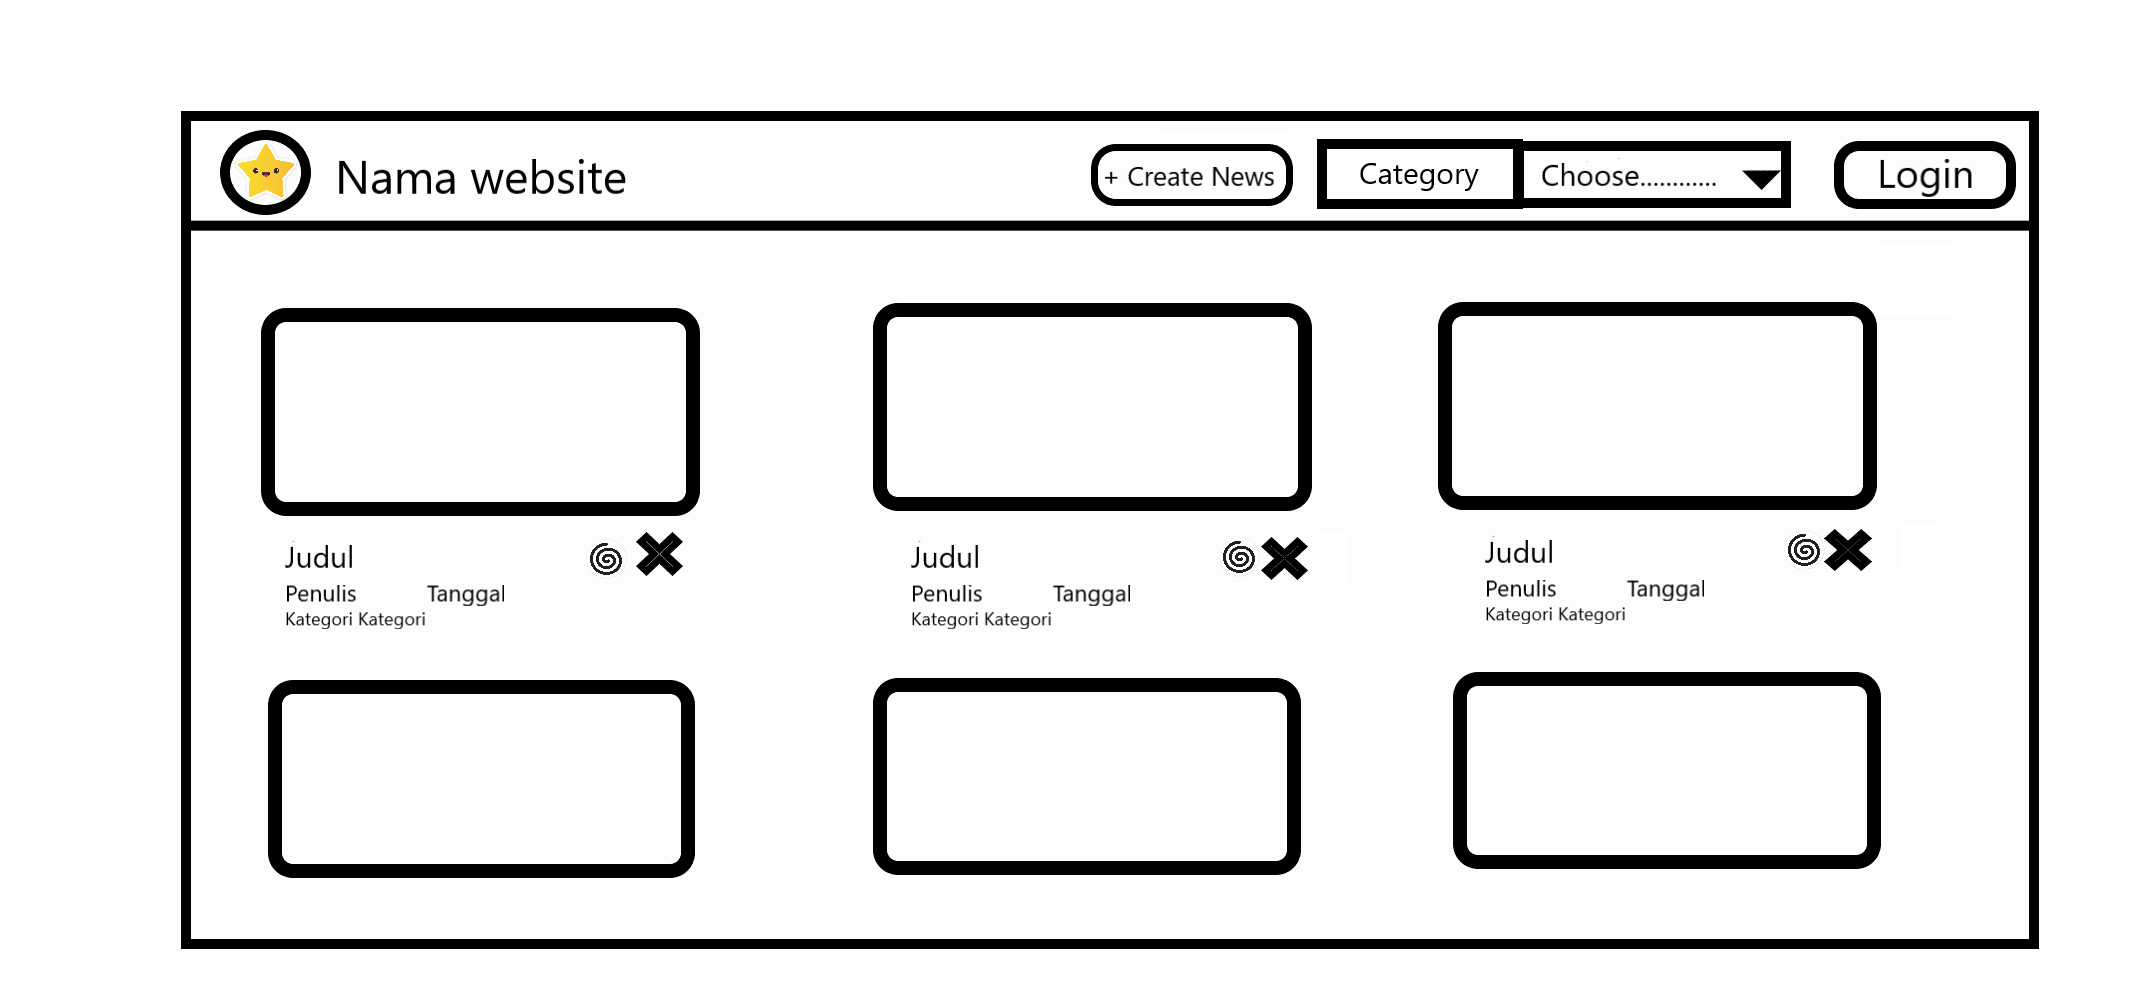
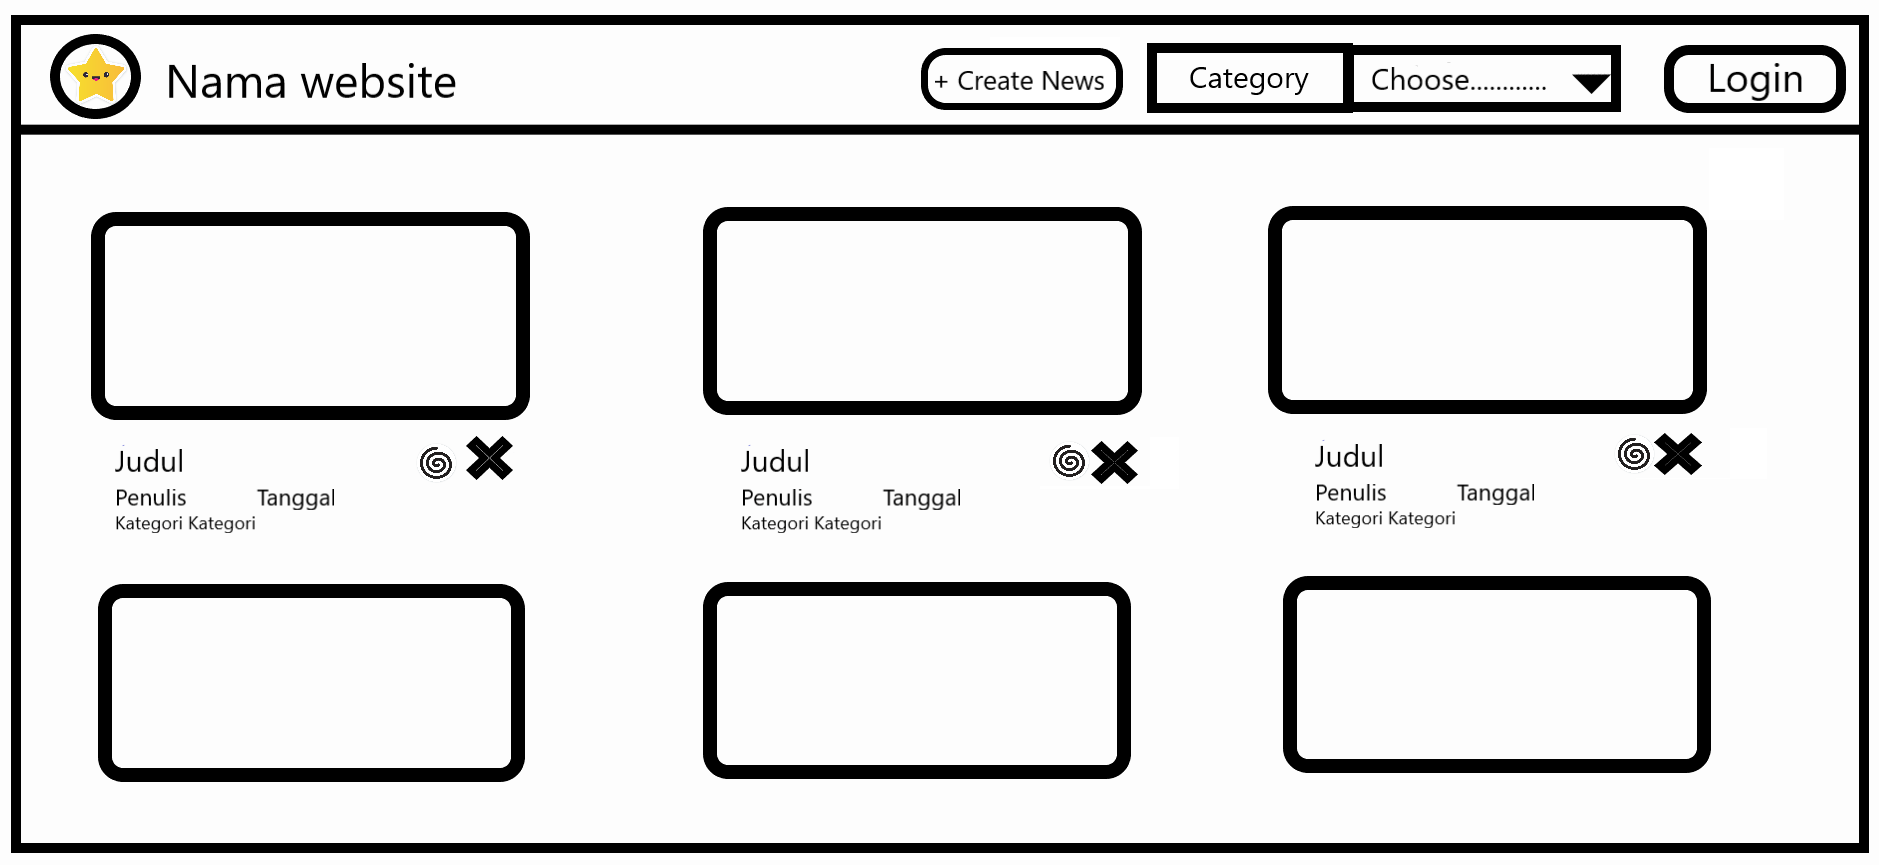
4am Improvement
I gotta sleep

Changed region(s): [[0.0, 0.0, 1.0, 0.9988], [0.3704, 0.6555, 0.6173, 0.9052]]

diff --git a/app/views/home/index.php b/app/views/home/index.php
@@ -1,4 +1,5 @@
 <div class="container">
+    <br>
         <?php 
             for ($i = 0; $i < 3; $i++)
             {
@@ -7,13 +8,19 @@
                     <div class="col-md-4">
                         <a href="<?= base_url ?>detail">
                             <div class="row">
-                                <img src="http://localhost/UTS_webprog/design/home_notlogin.png" alt="" >
+                                <img src="http://localhost/UTS_webprog/design/home_notlogin.png" alt="" style="padding-bottom:8px">
                             </div>
                         </a>
                         <div class="row">
                             <div class="col">
-                                <p style="font-size: large;">Judul</p>
+                                <p style="font-size: large; ">Judul</p>
                             </div>
+                            <!--
+                            <div class="col">
+                                <a href="<?= base_url ?>" role="button" class="btn btn-primary" style="margin-right:5px">Edit</a>
+                                <a href="<?= base_url ?>" role="button" class="btn btn-danger">Delete</a>
+                            </div>
+                            -->
                         </div>
                         <div class="row">
                             <div class="col">
@@ -24,20 +31,26 @@
                             </div>
                         </div>
                         <div class="row">
-                            <p style="font-size: small;">Kategori</p>
+                            <p style="font-size: small; padding-bottom:8px">Kategori</p>
                         </div>
                     </div>
                         
                     <div class="col-md-4">
                         <a href="<?= base_url ?>detail">
                             <div class="row">
-                                <img src="http://localhost/UTS_webprog/design/home_notlogin.png" alt="" >
+                                <img src="http://localhost/UTS_webprog/design/home_notlogin.png" alt="" style="padding-bottom:8px">
                             </div>
                         </a>
                         <div class="row">
                             <div class="col">
-                                <p style="font-size: large;">Judul</p>
+                                <p style="font-size: large; ">Judul</p>
                             </div>
+                            <!--
+                            <div class="col">
+                                <a href="<?= base_url ?>" role="button" class="btn btn-primary" style="margin-right:5px">Edit</a>
+                                <a href="<?= base_url ?>" role="button" class="btn btn-danger">Delete</a>
+                            </div>
+                            -->
                         </div>
                         <div class="row">
                             <div class="col">
@@ -48,19 +61,25 @@
                             </div>
                         </div>
                         <div class="row">
-                            <p style="font-size: small;">Kategori</p>
+                            <p style="font-size: small; padding-bottom:8px">Kategori</p>
                         </div>
                     </div>
 
                     <div class="col-md-4">
                         <a href="<?= base_url ?>detail">
                             <div class="row">
-                                <img src="http://localhost/UTS_webprog/design/home_notlogin.png" alt="" >
+                                <img src="http://localhost/UTS_webprog/design/home_notlogin.png" alt="" style="padding-bottom:8px">
                             </div>
                         </a>
                         <div class="row">
                             <div class="col">
-                                <p style="font-size: large;">Judul</p>
+                                <p style="font-size: large; ">Judul</p>
+                            </div>
+                            <div class="col">
+                                <!--
+                                <a href="<?= base_url ?>" role="button" class="btn btn-primary" style="margin-right:5px">Edit</a>
+                                <a href="<?= base_url ?>" role="button" class="btn btn-danger">Delete</a>
+                                -->
                             </div>
                         </div>
                         <div class="row">
@@ -72,7 +91,7 @@
                             </div>
                         </div>
                         <div class="row">
-                            <p style="font-size: small;">Kategori</p>
+                            <p style="font-size: small; padding-bottom:8px">Kategori</p>
                         </div>
                     </div>
                 </div>

diff --git a/app/views/detail/index.php b/app/views/detail/index.php
@@ -3,8 +3,8 @@
     <img src="http://localhost/UTS_webprog/app/views/detail/59855940.jpg">
   </div>
   <br>
-  <h1>Tokyo 7th Sisters<h1>
-  <p style="font-size:21px">@Tanggal: 29-13-2090</p>
+  <h1><strong>Tokyo 7th Sisters</strong><h1>
+  <p style="font-size:21px">November 8, 2016 12:45 PM</p>
   <br>
   <p style="font-size:24px; font-family: aller, allerta">
     777 FESTIVAL 4thにてイラスト本を出します！よろしくお願い致します。
@@ -67,7 +67,7 @@
   <hr>
   <div class="row">
     <div class="col col-md-1">
-      <img src="http://localhost/UTS_webprog/app/views/detail/htwh_c8I_400x400.jpg" class="col-md-12" style="border-radius: 50%">
+      <img src="http://localhost/UTS_webprog/app/views/detail/htwh_c8I_400x400.jpg" class="col-md-12" style="border-radius: 50%;">
     </div>
     <div class="col col-md-11">
       <div class="row">
